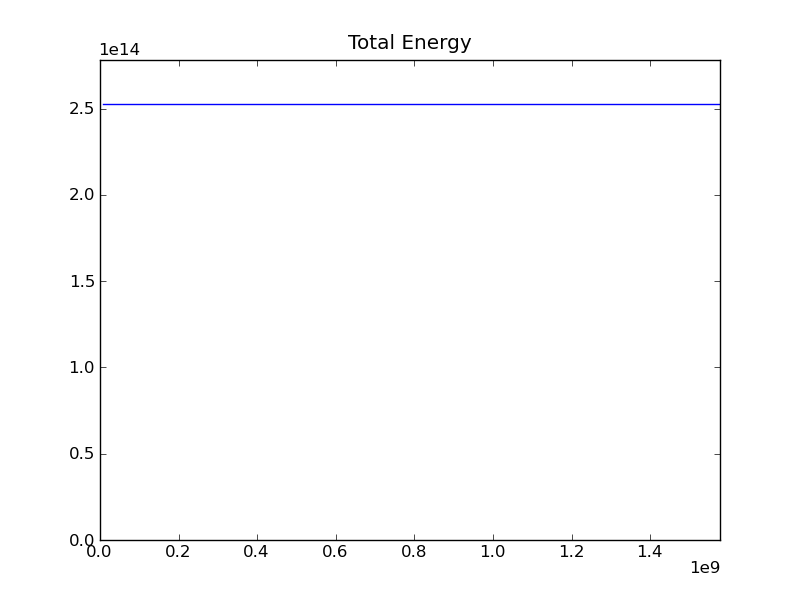
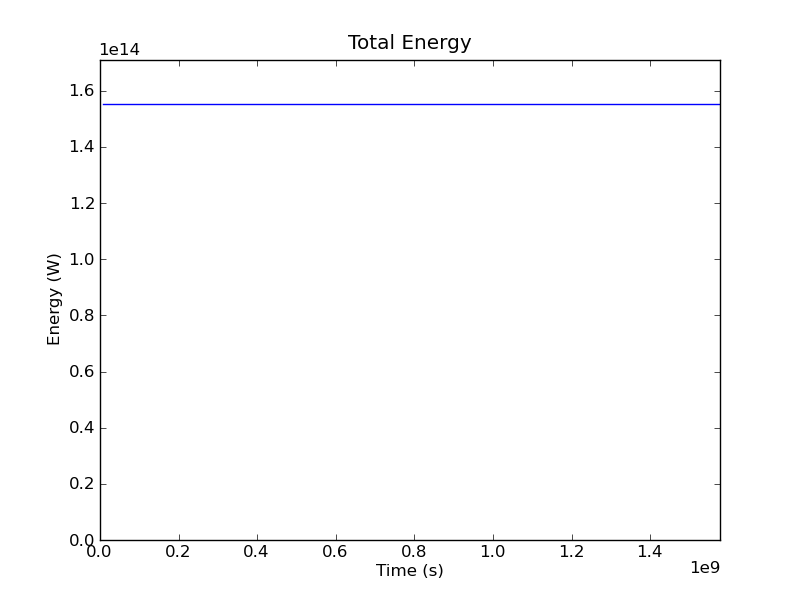
New figures.

diff --git a/doc/cookbook/example07.tex b/doc/cookbook/example07.tex
@@ -26,10 +26,10 @@ The acoustic wave equation is defined as;
 where $p$ is the pressure, $t$ is the time and $c$ is the wave velocity. In this
 chapter the acoustic wave equation is demonstrated. Important steps include the
 translation of the Laplacian $\nabla^2$ to the \esc general form, the stiff
-equation stability criterion and solving for the displacement of acceleration solution.
+equation stability criterion and solving for the displacement or acceleration solution.
 
 \section{The Laplacian in \esc}
-The Laplacian operator which can be written as $\Delta$ or $\nabla^2$  is
+The Laplacian operator which can be written as $\Delta$ or $\nabla^2$,  is
 calculated via the divergence of the gradient of the object, which in this
 example is the scalar $p$. Thus we can write;
 \begin{equation}
@@ -70,12 +70,12 @@ _{1}$ would return;
 \end{equation}
 
 \autoref{eqn:grad} corresponds to the Linear PDE general form value
-$X$. Notice however that the general form contains the term $X
+$X$. Notice however, that the general form contains the term $X
 _{i,j}$\footnote{This is the first derivative in the $j^{th}$
 direction for the $i^{th}$ component of the solution.},
 hence for a rank 0 object there is no need to do more then calculate the
 gradient and submit it to the solver. In the case of the rank 1 or greater
-object, it is necessary to calculate the trace also. This is the sum of the
+object, it is also necessary to calculate the trace. This is the sum of the
 diagonal in \autoref{eqn:gradrank1}. 
 
 Thus when solving for equations containing the Laplacian one of two things must
@@ -103,9 +103,9 @@ command will return the rank of the PDE object.
 \section{Numerical Solution Stability} \label{sec:nsstab}
 Unfortunately, the wave equation belongs to a class of equations called
 \textbf{stiff} PDEs. These types of equations can be difficult to solve
-numerically as they tend to oscillate about the exact solution which can
+numerically as they tend to oscillate about the exact solution, which can
 eventually lead to a catastrophic failure. To counter this problem, explicitly
-stable schemes like the backwards Euler method and correct parameterisation of
+stable schemes like the backwards Euler method, and correct parameterisation of
 the problem are required. 
 
 There are two variables which must be considered for
@@ -132,9 +132,9 @@ $f_{s}$, or;
 \end{equation}
 For example a 50Hz signal will require a sampling rate greater then 100Hz or
 one sample every 0.01 seconds. The wave equation relies on a spatial frequency,
-thus the sampling theorem in this case applies to the solution mesh spacing. In
-this way, the frequency content of the input signal directly affects the time
-discretisation of the problem.  
+thus the sampling theorem in this case applies to the solution mesh spacing.
+This relationship confirms that the frequency content of the input signal
+directly affects the time discretisation of the problem.
 
 To accurately model the wave equation with high resolutions and velocities
 means that very fine spatial and time discretisation is necessary for most
@@ -228,13 +228,13 @@ for i in range(ndx/2-ndx/10,ndx/2+ndx/10):
 We then submit the output to \verb!Locator! and finally return the appropriate
 values using the \verb!getValue! function.
 \begin{python}
- src=Locator(mydomain,src_cut)
+src=Locator(mydomain,src_cut)
 src_cut=src.getValue(u)
 \end{python}
 It is then a trivial task to plot and save the output using \mpl
 (\autoref{fig:cxsource}).
 \begin{python}
- pl.plot(cut_loc,src_cut)
+pl.plot(cut_loc,src_cut)
 pl.axis([xc[0]-src_radius*3,xc[0]+src_radius*3,0.,2*U0])
 pl.savefig(os.path.join(savepath,"source_line.png"))
 \end{python}
@@ -272,9 +272,10 @@ the \verb!Locator! function.
 \section{Acceleration Solution}
 \sslist{example07b.py}
 
-An alternative method is to solve for the acceleration $\frac{\partial ^2
-p}{\partial t^2}$ directly, and derive the displacement solution from the
-PDE solution. \autoref{eqn:waveu} is thus modified;
+An alternative method to the displacement solution, is to solve for the
+acceleration $\frac{\partial ^2 p}{\partial t^2}$ directly. The displacement can
+then be derived from the acceleration after a solution has been calculated
+The acceleration is given by a modified form of \autoref{eqn:waveu};
 \begin{equation}
   \nabla ^2 p - \frac{1}{c^2} a = 0
 \label{eqn:wavea}
@@ -309,7 +310,7 @@ It is now prudent to investigate the stability limitations of this problem.
 First, we let the frequency content of the source be very small. If we define
 the source as a cosine input, then the wavlength of the input is equal to the
 radius of the source. Let this value be 5 meters. Now, if the maximum velocity
-of the model is $c=380.0ms^{-1}$ then the source
+of the model is $c=380.0ms^{-1}$, then the source
 frequency is $f_{r} = \frac{380.0}{5} = 76.0 Hz$. This is a worst case
 scenario with a small source and the models maximum velocity. 
 
@@ -340,31 +341,34 @@ the propagation requirement. For a maximum velocity of $380.0ms^{-1}$,
   \Delta t \leq \frac{1000.0m}{800} \frac{1}{380.0} = 0.0032s
  \end{equation}
 \end{subequations}
-We can see, that for each doubling of the number of nodes in the mesh, we halve
-the timestep. To illustrate the impact this has, consider our model. If the
+Observe that for each doubling of the number of nodes in the mesh, we halve
+the time step. To illustrate the impact this has, consider our model. If the
 source is placed at the center, it is $500m$ from the nearest boundary. With a
 velocity of $380.0ms^{-1}$ it will take $\approx1.3s$ for the wavefront to
 reach that boundary. In each case, this equates to $100$,  $200$ and $400$ time
 steps. This is again, only a best case scenario, for true stability these time
-values may need to be halved and possibly havled again.
+values may need to be halved and possibly halved again.
 
 \begin{figure}[ht]
 \centering
 \subfigure[Undersampled Example]{
-\includegraphics[width=3in]{figures/ex07usamp.png}
+\includegraphics[width=0.45\textwidth,trim=0cm 6cm 5cm 6cm
+,clip]{figures/ex07usamp.png}
 \label{fig:ex07usamp}
 }
 \subfigure[Just sampled Example]{
-\includegraphics[width=3in]{figures/ex07jsamp.png}
+\includegraphics[width=0.45\textwidth,trim=0cm 6cm 5cm 6cm
+,clip]{figures/ex07jsamp.png}
 \label{fig:ex07jsamp}
 }
 \subfigure[Over sampled Example]{
-\includegraphics[width=3in]{figures/ex07nsamp.png}
+\includegraphics[width=0.45\textwidth,trim=0cm 6cm 5cm 6cm
+,clip]{figures/ex07nsamp.png}
 \label{fig:ex07nsamp}
 }
-\label{fig:ex07sampth}
 \caption{Sampling Theorem example for stability
 investigation.}
+\label{fig:ex07sampth}
 \end{figure}
 
 

diff --git a/doc/cookbook/example10.tex b/doc/cookbook/example10.tex
@@ -16,7 +16,7 @@
 In this chapter the gravitational potential field is developed for \esc.
 Gravitational fields are present in many modelling scenarios, including
 geophysical investigations, planetary motion and attraction and microparticle
-interactions. Gravitational fields also presents the opportunity to demonstrate
+interactions. Gravitational fields also present an opportunity to demonstrate
 the saving and visualisation of vector data for Mayavi.
 
 The gravitational potential $U$ at a point $P$ due to a region with a mass
@@ -26,26 +26,51 @@ distribution of density $\rho(P)$, is given by Poisson's equation
 \nabla^2 U(P) = -4\pi\gamma\rho(P)
 \end{equation}
 where $\gamma$ is the gravitational constant.
-Consider now the \esc general form, which can simply be related to
-\autoref{eqn:poisson} using two coefficients. The result is
+Consider now the \esc general form, which has a simple relationship to
+\autoref{eqn:poisson}. There are only two non-zero coefficients, $A$ and $Y$,
+thus the relevant terms of the general form are reduced to;
 \begin{equation}
 -\left(A_{jl} u_{,l} \right)_{,j} = Y
 \end{equation}
-one recognises that the LHS side is equivalent to 
+One recognises that the LHS side is equivalent to 
 \begin{equation} \label{eqn:ex10a}
 -\nabla A \nabla u
 \end{equation}
-If $A=\delta_{jl}$ then \autoref{eqn:ex10a} is equivalent to
+and when a $A=\delta_{jl}$, \autoref{eqn:ex10a} is equivalent to
 \begin{equation*}
 -\nabla^2 u
 \end{equation*}
-and thus Poisson's \autoref{eqn:poisson} satisfies the general form when
+Thus Poisson's \autoref{eqn:poisson} satisfies the general form when
 \begin{equation}
 A=\delta_{jl} \text{ and } Y= 4\pi\gamma\rho
 \end{equation}
-At least one boundary point must be set for the problem to be solvable. For this
-example we have set all of the boundaries to zero. The normal flux condition is
-also zero by default. For a more realistic and complicated models it may be
+The boundary condition is the last parameter that requires consideration. The
+potential $U$ is related to the mass of a sphere by
+\begin{equation}
+U(P)=-\gamma \frac{m}{r^2}
+\end{equation} where $m$ is the mass of the sphere and $r$ is the distance from
+the center of the mass to the observation point $P$. Plainly, the magnitude
+of the potential is goverened by an inverse-square distance law. Thus, in the
+limit as $r$ increases;
+\begin{equation}
+\lim_{r\to\infty} U(P) = 0
+\end{equation}
+Provided that the domain being solved is large enough, the potential will decay
+to zero. This stipulates a dirichlet condition where $U=0$ on the boundary of a
+domain.
+
+This boundary condition can be satisfied when there is some mass suspended in a
+free-space. For geophysical models where the mass of interest may be an anomaly
+inside a host rock, the anomaly can be isolated by subtracting the density of the
+host rock from the model. This creates a ficticious free space model that will
+obey the boundary conditions. The result is that $Y=4\pi\gamma\Delta\rho$, where
+$\Delta\rho=\rho-\rho_0$ and $\rho_0$ is the baseline or host density. This of
+course means that the true gravity response is not being modelled, but the
+reponse due to an anomalous mass $\Delta g$.
+
+For this example we have set all of the boundaries to zero but only one bondary
+point needs to be set for the problem to be solvable. The normal flux condition
+is also zero by default. For a more realistic and complicated models it may be
 necessary to give careful consideration to the boundary conditions of the model,
 which can have an influence upon the solution.
 
@@ -73,7 +98,7 @@ The potential $U$ is related to the gravitational response $\vec{g}$ via
 \begin{equation}
 \vec{g} = \nabla U
 \end{equation}
-This for example as a vertical component $g_{z}$ where
+$\vec{g}$ is a vector and thus, has a a vertical component $g_{z}$ where
 \begin{equation}
 g_{z}=\vec{g}\cdot\hat{z}
 \end{equation}
@@ -96,18 +121,59 @@ saveVTK(os.path.join(save_path,"ex10a.vtu"),\
         grav_pot=sol,g_field=g_field,g_fieldz=g_fieldz,gz=gz)
 \end{python}
 
+It is quite simple to visualise the data from the gravity solution in Mayavi2.
+With Mayavi2 open go to File, Load data, Open file \ldots as in
+\autoref{fig:mayavi2openfile} and select the saved data file. The data will
+have then been loaded and is ready for visualisation. Notice that under the data
+object in the Mayavi2 navigation tree the 4 values saved to the VTK file are
+available (\autoref{fig:mayavi2data}). There are two vector values,
+\verb|gfield| and \verb|gfieldz|. Note that to plot both of these on the same
+chart requires that the data object be imported twice.
+
+The point scalar data \verb|grav_pot| is the gravitational potential and it is
+easily plotted using a surface module. To visualise the cell data a filter is
+required that converts to point data. This is done by right clicking on the data
+object in the explorer tree and sellecting the cell to point filter as in
+\autoref{fig:mayavi2cell2point}.
+
+The settings can then be modified to suit personal taste. An example of the
+potential and gravitational field vectors is illustrated in
+\autoref{fig:ex10pot}.
+
+\begin{figure}[ht]
+\centering
+\includegraphics[width=0.75\textwidth]{figures/mayavi2_openfile.png}
+\caption{Open a file in Mayavi2}
+\label{fig:mayavi2openfile}
+\end{figure}
+
+\begin{figure}[ht]
+\centering
+\includegraphics[width=0.75\textwidth]{figures/mayavi2_data.png}
+\caption{The 4 types of data in the imported VTK file.}
+\label{fig:mayavi2data}
+\end{figure}
+
+\begin{figure}[ht]
+\centering
+\includegraphics[width=0.75\textwidth]{figures/mayavi2_cell2point.png}
+\caption{Converting cell data to point data.}
+\label{fig:mayavi2cell2point}
+\end{figure}
+
 \begin{figure}[ht]
 \centering
 \includegraphics[width=0.75\textwidth]{figures/ex10apot.png}
 \caption{Newtonian potential with g field directionality.}
 \label{fig:ex10pot}
 \end{figure}
+\clearpage
 
 \section{Gravity Well}
 \sslist{example10b.py}
 Let us now investigate the effect of gravity in three dimensions. Consider a
 volume which contains a sphericle mass anomaly and a gravitational potential
-which decays to zero at the base of the anomaly.
+which decays to zero at the base of the model.
 
 The script used to solve this model is very similar to that used for the gravity
 pole in the previous section, but with an extra spatial dimension. As for all

diff --git a/doc/cookbook/example01.tex b/doc/cookbook/example01.tex
@@ -488,8 +488,8 @@ T2=2273. * Celsius # base temperature at Block 2
 Finally, to control our script we will have to specify our timing controls and
 where we would like to save the output from the solver. This is simple enough:
 \begin{python}
-t=0 * day  #our start time, usually zero
-tend=1. * day # - time to end simulation
+t=0 * day  # our start time, usually zero
+tend=50 * yr # - time to end simulation
 outputs = 200 # number of time steps required.
 h=(tend-t)/outputs #size of time step
 #user warning statement
@@ -787,17 +787,26 @@ following iteration.
 \begin{python}
 # ... start iteration:
 while t<tend:
-        ....
-	T=mypde.getSolution() #get the PDE solution
-        tempT = T.toListOfTuples() # convert to a tuple
-        pl.plot(plx,tempT) # plot solution
-	# set scale (Temperature should be between Tref and T0)
-        pl.axis([0,mx,Tref*.9,T0*1.1])
-        # add title
-	pl.title("Temperature across the blocks at time %e minutes"%(t/day))
-	#save figure to file
-	pl.savefig(os.path.join(save_path,"tempT","blockspyplot%03d.png") %i)
-\end{python}
+      i+=1
+      t+=h
+      mypde.setValue(Y=qH+rhocp/h*T)
+      T=mypde.getSolution()
+      totE=integrate(rhocp*T)
+      print "time step %s at t=%e days completed. total energy = %e."%(i,t/day,totE)
+      t_list.append(t)
+      E_list.append(totE)
+
+      #establish figure 1 for temperature vs x plots
+      tempT = T.toListOfTuples()
+      pl.figure(1) #current figure
+      pl.plot(plx,tempT) #plot solution
+      # add title
+      pl.axis([0,mx,T1*.9,T2*1.1])
+      pl.title("Temperature across blocks at time %d days"%(t/day))
+      #save figure to file
+      pl.savefig(os.path.join(save_path,"tempT", "blockspyplot%03d.png"%i))
+      pl.clf() #clear figure
+\end{python}  
 Some results are shown in \reffig{fig:onedheatout}. 
 
 \subsection{Making a Video} 
